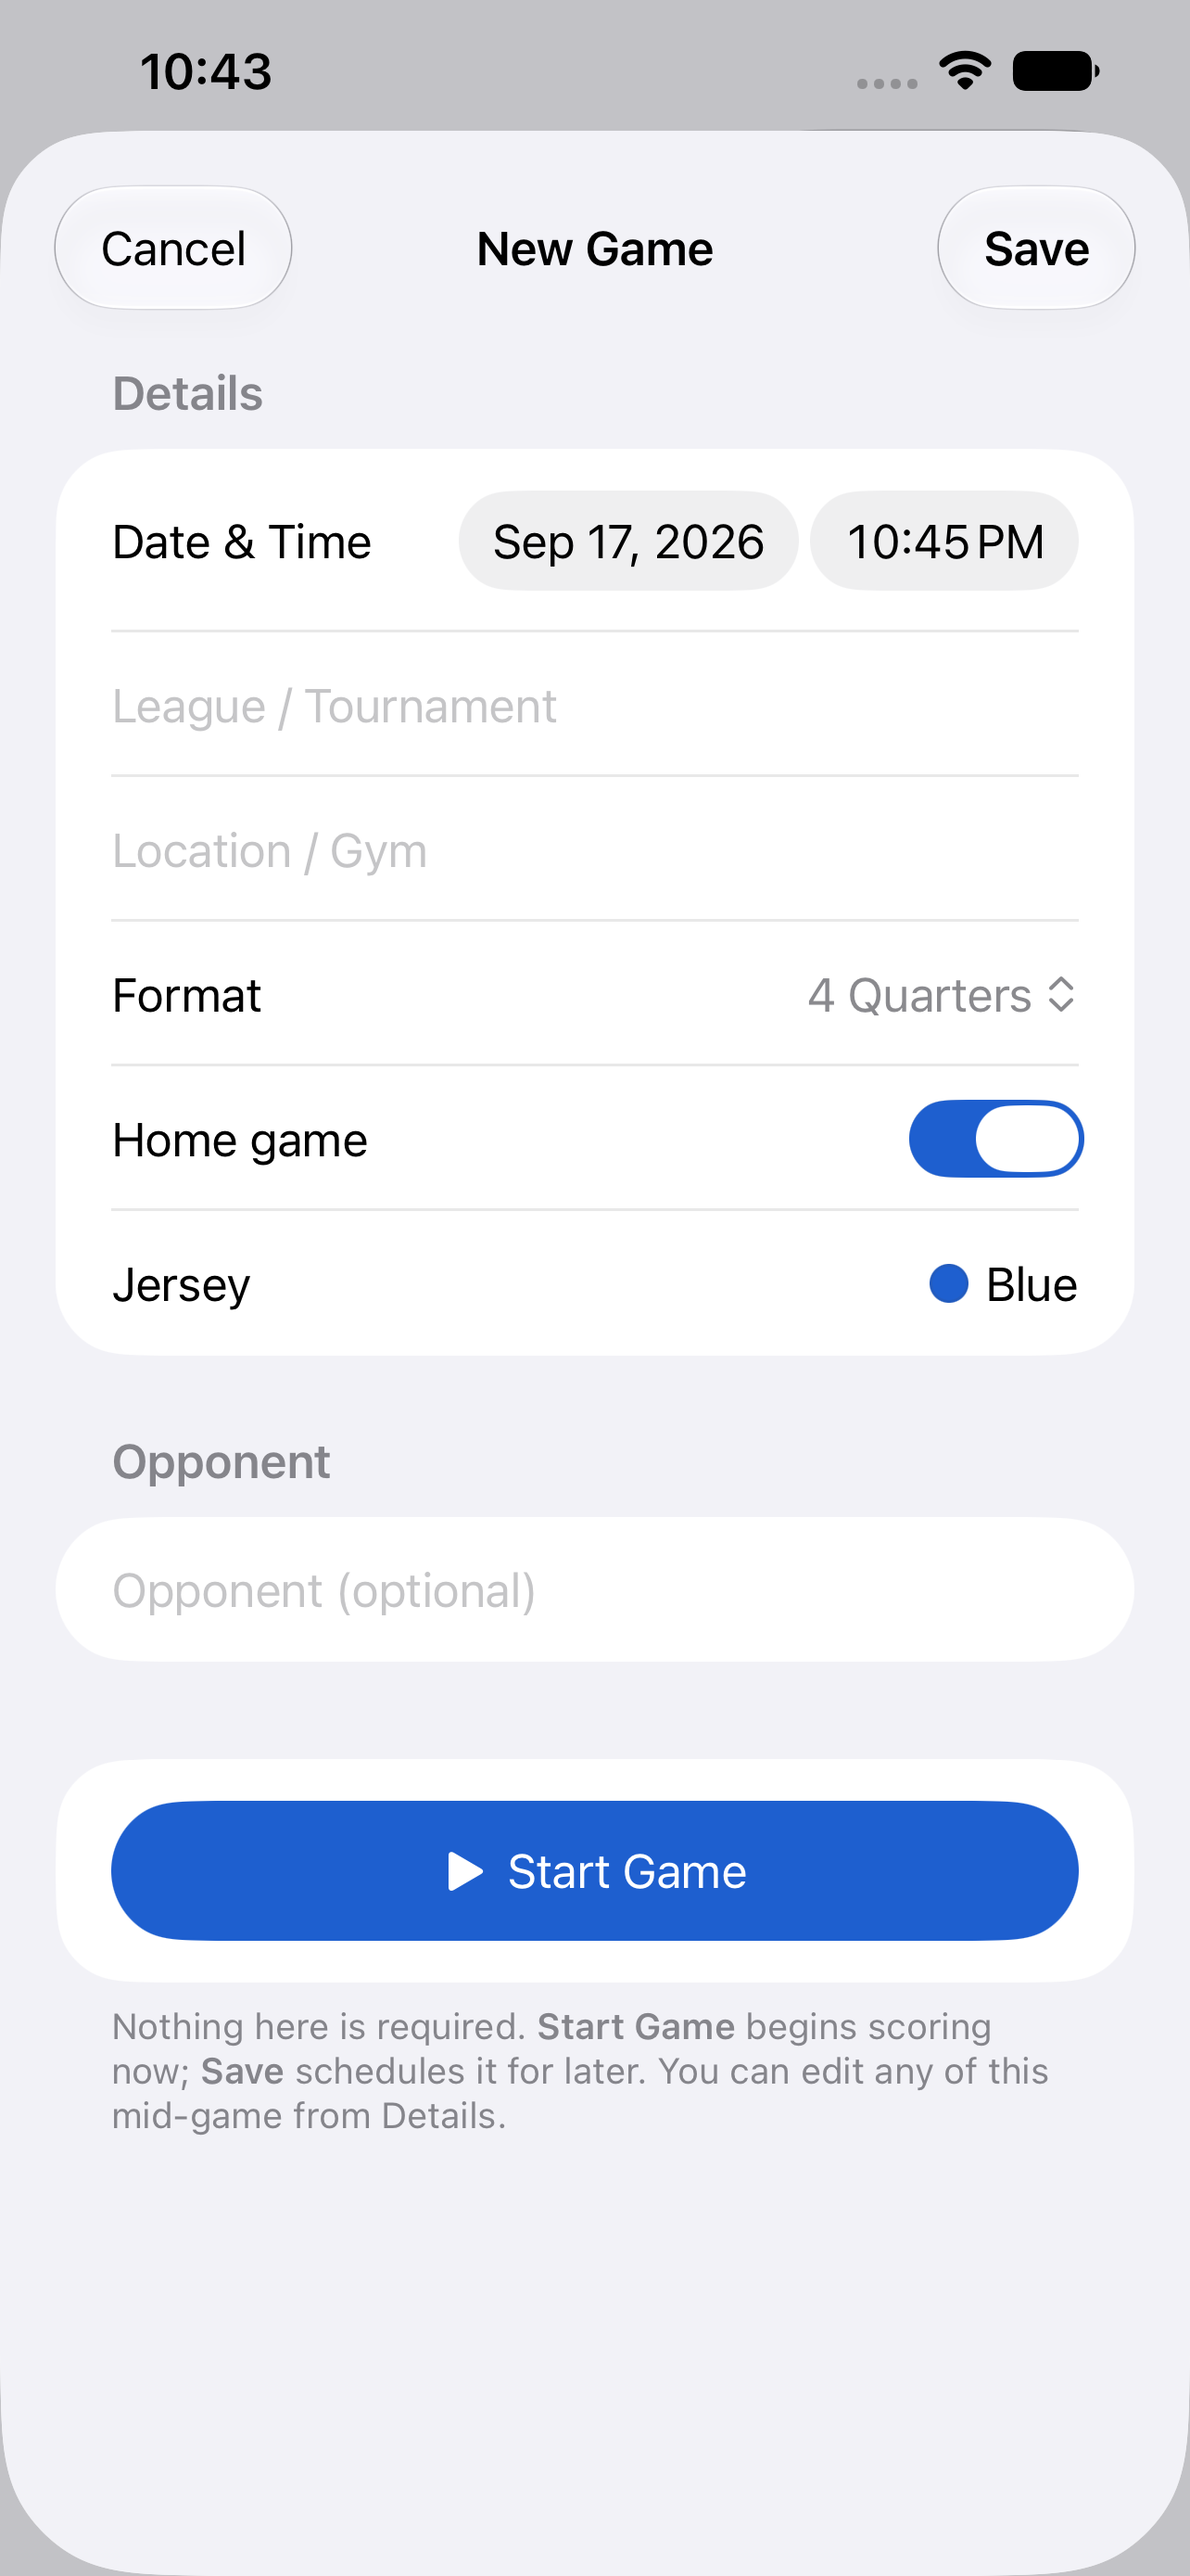
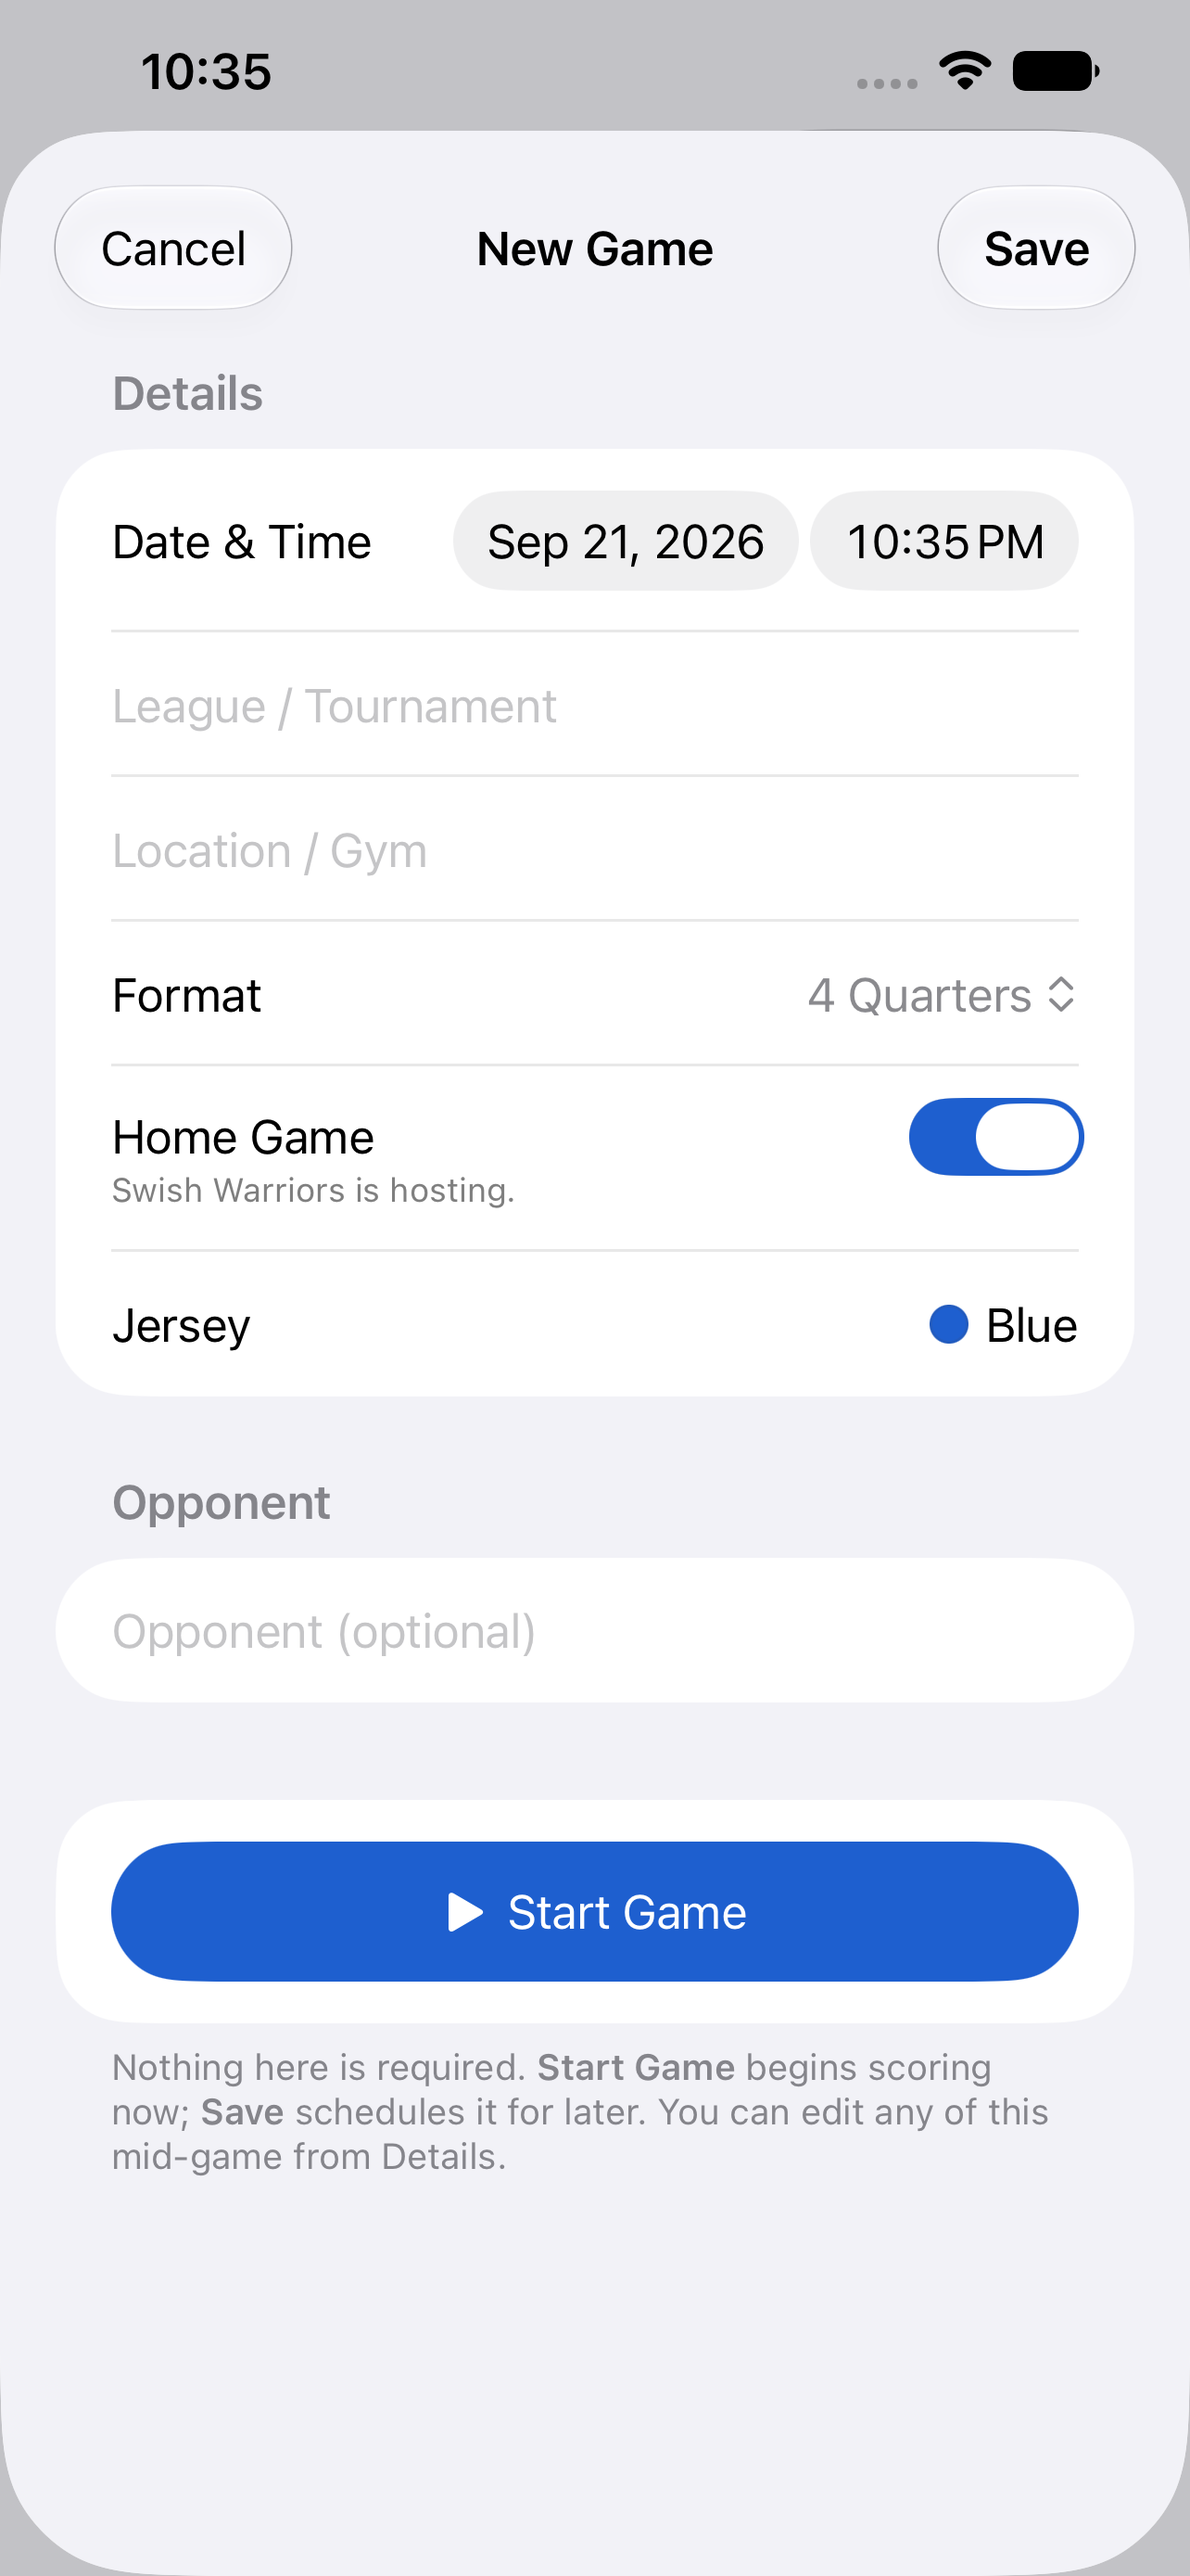
Promote the New Game capture, and list all five slots to re-upload
The Home Game caption shipped in #197 but its curated copy was never promoted,
so slot 9 still showed the old bare switch. That makes five slots differing
from the store, not four — and none of them have been uploaded through two
releases now.

Claude-Session: https://claude.ai/code/session_01XKw3Fyr61m8RtwfRppQofX

diff --git a/docs/APP_STORE_LISTING.md b/docs/APP_STORE_LISTING.md
@@ -135,9 +135,19 @@ broken mid-sentence on the product page. Everything else in these docs wraps at
 > 1. The Home Game switch now says which team is at home, so a mix-up can't put the team in the wrong jersey.
 > 2. On a scheduled game, Delete no longer sits flush against Start Game, and asks before it deletes.
 
-**Screenshots to re-upload:** slot 7 (`07-games.png`) — the demo game's final
-score changed with the overtime seed — **plus slots 4, 5 and 8**, which v1.9
-needed for the tab-bar move and never shipped. Four in total.
+**Screenshots to re-upload — five, and they have now ridden along unuploaded
+through two releases:**
+
+| Slot | File | Why it differs from the store |
+|---|---|---|
+| 4 | `04-following-game.png` | Following moved to the left of the tab bar (v1.9) |
+| 5 | `05-game-summary.png` | same tab bar |
+| 7 | `07-games.png` | tab bar, tighter rows, no truncated gym name, and the demo game's score changed with the overtime seed |
+| 8 | `08-roster.png` | tab bar, and rows tight enough to fit a ten-player roster |
+| 9 | `09-new-game.png` | the Home Game switch now names the home team (v1.11) |
+
+Unchanged: 1, 2 and 3 (Live Scoring hides the tab bar, and the pad and assist
+sheets cover it), 6 (full-screen PDF preview), and 10 (a sheet).
 
 Overtime itself is **not** visible in any of the ten: it shows in the linescore,
 and no slot carries one. Putting it on the page would mean displacing a
